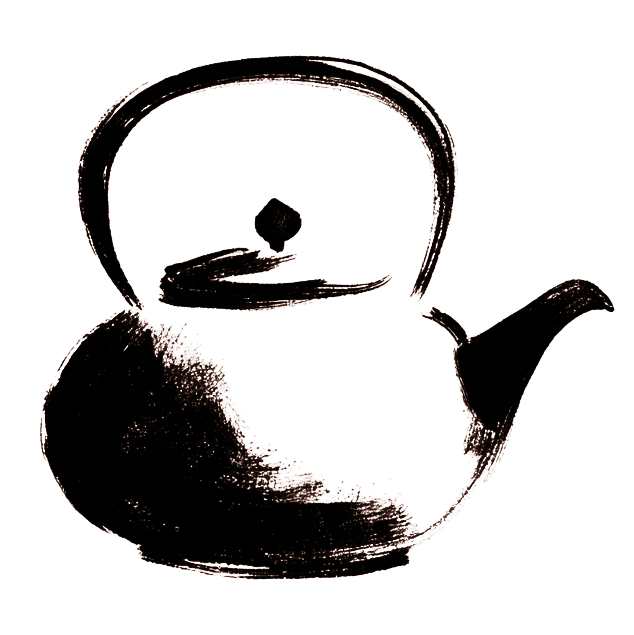
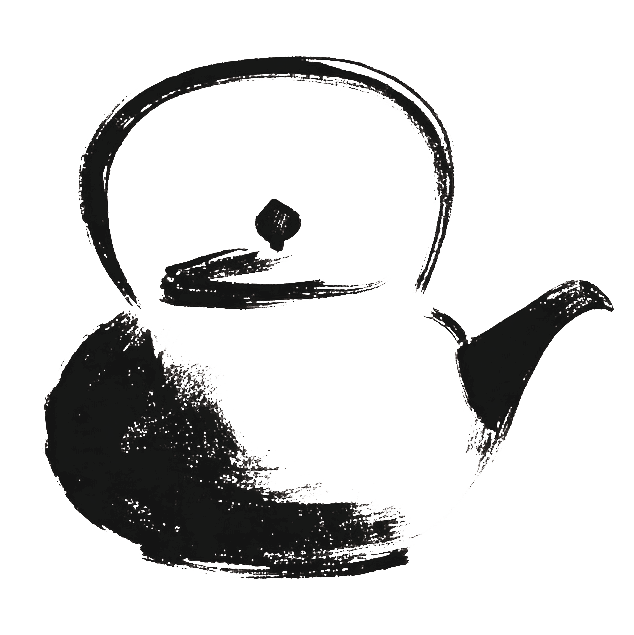
WIP - the bbackground to the teapot to square

diff --git a/styles.css b/styles.css
@@ -26,7 +26,7 @@ body {
   margin: 0;
   min-height: 100vh;
   display: grid;
-  place-items: center;
+  /* place-items: center; */
   background: var(--color-bg);
   padding: 20px; /* guarantees gutters on tiny widths */
   overflow-x: hidden;
@@ -51,57 +51,61 @@ body {
 
 /* ── Чайник ── */
 .teapot-wrap {
-  width: min(466px, calc(100%)); /* parent-based, not viewport-based */
+  position: relative;
+  width: min(466px, 100%);
+  height: 400px; /* или другое значение под твой прямоугольник */
+  display: grid;
+  place-items: center;
+  margin-bottom: 0;
+}
+/* .teapot-wrap {
+  width: min(466px, calc(100%));
   aspect-ratio: 1 / 1;
   height: auto;
   position: relative;
   display: grid;
   place-items: center;
-  /* margin-bottom: 10px; */
 
   --tea-scale: 1;
   --tea-x: 0px;
   --tea-y: 0px;
-  /* --tea-y: 18px; */
-}
+} */
 
 /* круглый фон за чайником */
-.teapot-bg {
+/* .teapot-bg {
   position: absolute;
   inset: 0;
   border-radius: 50%;
   background: #f7efe4;
   opacity: 0.95;
   pointer-events: none;
-}
+} */
 
 /* пар */
 .steam-svg {
   position: absolute;
-  top: 60px;
-  left: 70%;
+  top: 55px;
+  left: 76%;
   transform: translateX(-10%);
   width: 90px;
   height: 200px;
   opacity: 0;
   pointer-events: none;
   z-index: 2;
+  stroke-width: 1.8;
 }
 
 /* PNG чайник */
 
 .teapot-img {
   position: absolute;
-  left: 52%;
-  top: 47%;
-
+  left: 16%;
+  top: 12%;
   width: 70%;
   height: auto;
-
   transform-origin: 50% 60%;
   transform: translate(calc(-50% + var(--tea-x)), calc(-50% + var(--tea-y)))
     scale(var(--tea-scale));
-
   transition: transform 240ms cubic-bezier(0.2, 0.8, 0.2, 1);
   user-select: none;
 }
@@ -114,7 +118,7 @@ body {
 }
 
 .steaming .steam-svg {
-  opacity: 1;
+  opacity: 0.8;
 }
 
 .steaming .steam.s1 {
@@ -125,6 +129,13 @@ body {
 }
 .steaming .steam.s3 {
   animation: steamRise 2.4s ease-in-out infinite 1.2s;
+}
+.steam.s2 {
+  transform: translateY(3px); /* ~5% визуально */
+}
+
+.steam.s3 {
+  transform: translateY(6px); /* ещё +5% */
 }
 
 @keyframes steamRise {
@@ -482,28 +493,85 @@ body {
     margin-top: -7px;
   }
 }
+@media (max-width: 600px) {
+  .teapot-wrap {
+    width: calc(100% + 40px);
+    margin-left: -20px;
+    margin-right: -20px;
+    height: 320px;
+  }
+
+  .teapot-mask,
+  .teapot-bg {
+    border-radius: 0;
+    height: 100%;
+  }
+
+  .app {
+    max-width: none;
+    width: 100%;
+    padding-top: 0;
+  }
+
+  .teapot-mask {
+    width: 100%;
+    height: 100%;
+    border-radius: 0;
+    overflow: hidden;
+  }
+
+  .teapot-bg {
+    inset: 0;
+    width: 100%;
+    height: 100%;
+    border-radius: 0;
+  }
+
+  .teapot-img {
+    left: 50%;
+    top: 46%;
+    width: min(260px, 62vw);
+    transform: translate(-50%, -50%);
+  }
+
+  .steam-svg {
+    left: 56%;
+    top: 36px;
+    width: 72px;
+    height: 150px;
+    transform: translateX(-50%);
+  }
+
+  .title {
+    margin-top: 20px;
+  }
+}
 .teapot-mask {
   position: relative;
   width: 100%;
   height: 100%;
-  border-radius: 50%;
-  overflow: hidden; /* <-- this is the clip */
+  /* border-radius: 50%; */
+  /* overflow: hidden; */
 }
 
 /* keep bg filling the mask */
 .teapot-bg {
   position: absolute;
   inset: 0;
-  border-radius: 50%;
+  /* top: 27px; */
+  /* left: -13px; */
+  border-radius: 20%;
+  width: 100%;
+  height: 95%;
+  z-index: 0;
+  animation: teapotBgPulse 3.6s ease-in-out infinite;
+  transform-origin: center;
 }
 .teapot-img {
   z-index: 1;
 }
 .steam-svg {
   z-index: 2;
-}
-.teapot-bg {
-  z-index: 0;
 }
 
 /* tiny tick animation */

diff --git a/index.html b/index.html
@@ -23,9 +23,9 @@
           >
             <path
               class="steam s1"
-              d="M30 55 Q27 40 31 28 Q35 16 29 5"
+              d="M42 55 Q39 40 43 28 Q47 16 41 5"
               fill="none"
-              stroke="#b5876a"
+              stroke="var(--color-bg)"
               stroke-width="2"
               stroke-linecap="round"
             />
@@ -33,15 +33,15 @@
               class="steam s2"
               d="M55 55 Q51 38 55 25 Q59 12 53 2"
               fill="none"
-              stroke="#b5876a"
+              stroke="var(--color-bg)"
               stroke-width="2"
               stroke-linecap="round"
             />
             <path
               class="steam s3"
-              d="M80 55 Q77 41 81 29 Q85 17 79 6"
+              d="M68 55 Q65 41 69 29 Q73 17 67 6"
               fill="none"
-              stroke="#b5876a"
+              stroke="var(--color-bg)"
               stroke-width="2"
               stroke-linecap="round"
             />
@@ -50,7 +50,7 @@
           <img
             class="teapot-img"
             id="teapotImg"
-            src="assets/tea-pot_ink.png"
+            src="assets/tea-pot_brown.png"
             alt="Чайник"
             draggable="false"
           />
